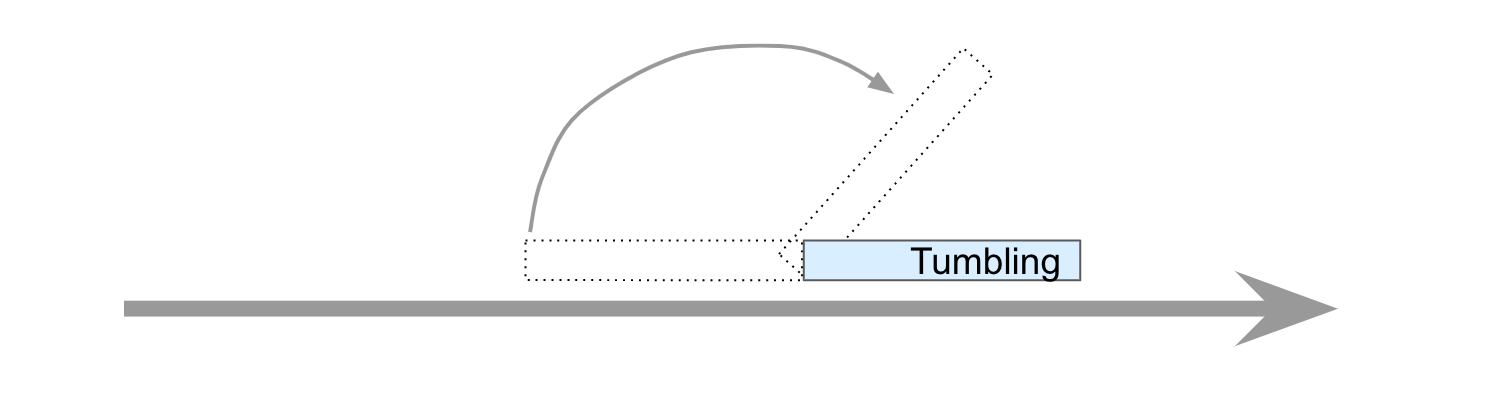
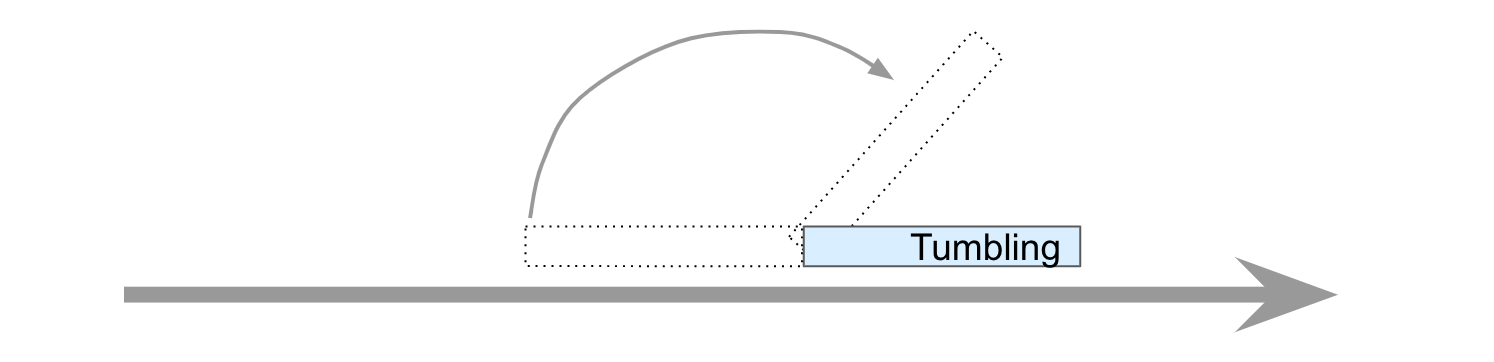
Pictures for Event Disorder

Changed region(s): [[0.0616, 0.5773, 0.8929, 0.9116], [0.4003, 0.0608, 0.6158, 0.2431], [0.3695, 0.2431, 0.4003, 0.3646]]

diff --git a/site/docs/concepts/event-time.md b/site/docs/concepts/event-time.md
@@ -89,10 +89,24 @@ network congestion, shared resource limitations and many more. This
 results in what we call *event disorder*: observing the events out of
 their true order of occurrence.
 
-Processing events out of order is a challenge. Hazelcast Jet handles
-most of the concerns internally, but there is one decision it can't make
-for you: how much to wait for lagging events. Jet can't emit the result
+Here's what an ordered event stream looks like:
+
+![Ordered Events](assets/eventtime-order.png)
+
+Notice that latency not only exists, but is variable. This has no major
+impact on stream processing.
+
+And here's what event disorder looks like:
+
+![Disordered Events](assets/eventtime-disorder.png)
+
+Latency is all over the place now and it has disordered the events.
+After receiving the second event Jet has no idea how much longer to wait
+expecting events older than it. This is where you as the user are
+expected to provide the *maximum event lag*. Jet can't emit the result
 of a windowed aggregation until it has received all the events belonging
 to the window, but the longer it waits, the later you'll see the
-results. So you must strike a balance and choose how much to wait. This
-parameter is called the *allowed event lag*.
+results. So you must strike a balance and choose how much to wait.
+Notice that by "wait" we mean event time, not processing time: when we
+get an event with timestamp `t_a`, we are no longer waiting for events
+with timestamp `t_b <= t_a - maxLag`.
